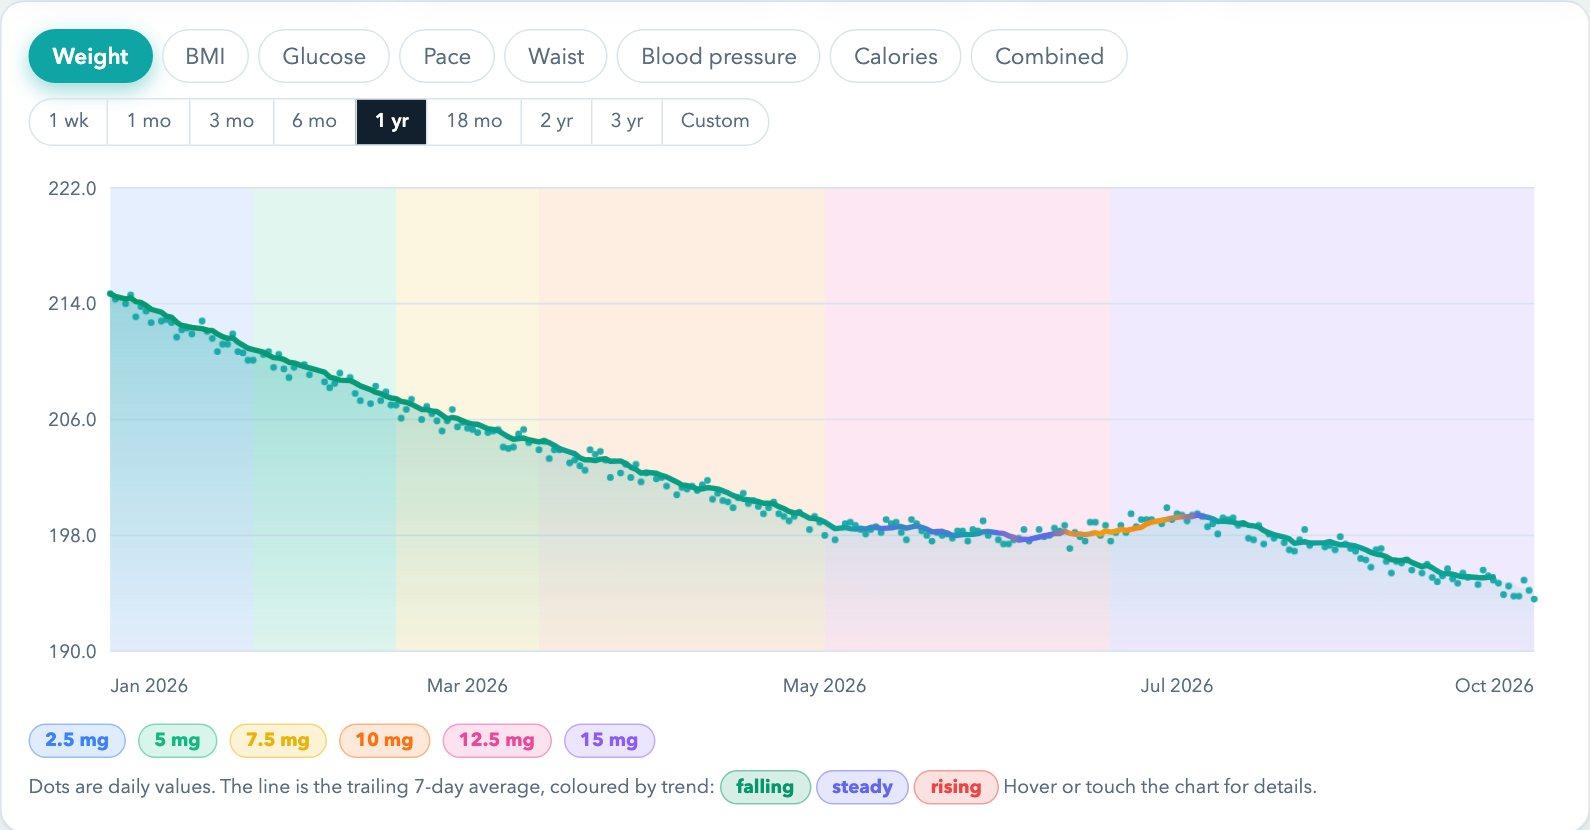
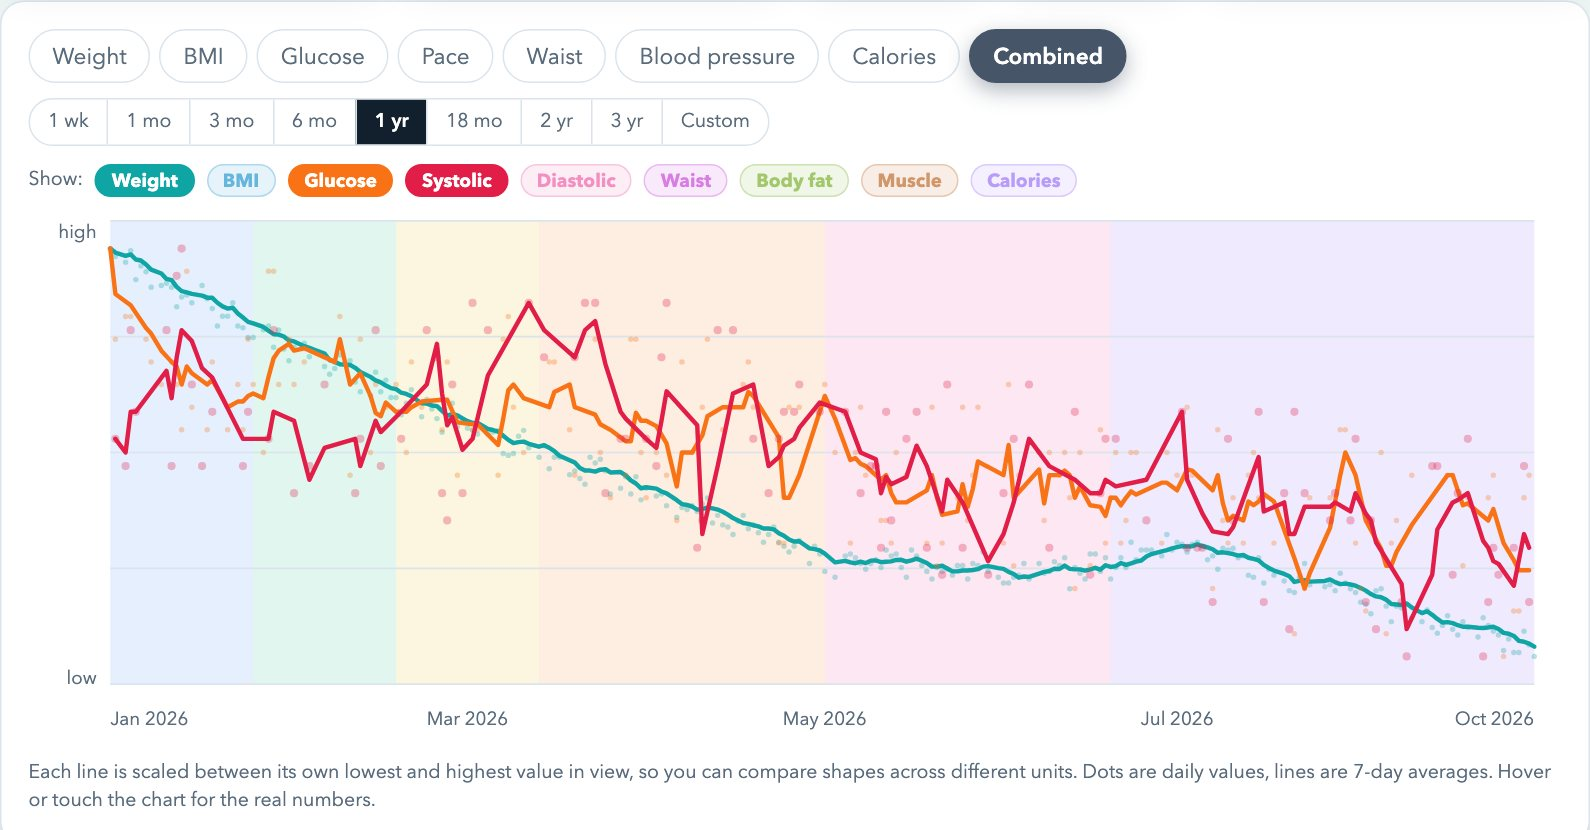
Landing demo picture: the Combined chart, so it differs from the hero picture

diff --git a/index.html b/index.html
@@ -439,7 +439,7 @@
       <div class="panel lp-card" style="--c:#f97316"><h2>Web and iPhone in step</h2><p>Sign in on either and see the same log. After you sign in it keeps working offline and catches up when you are back online.</p></div>
     </div>
     <div class="panel lp-split lp-demo">
-      <a href="/demo" aria-label="Open the live demo"><img src="landing/demo.jpg" width="1060" height="700" loading="lazy" alt="The demo: nine months of weight with shaded dose bands, a line coloured by trend, with tabs for every other chart (made-up data)."></a>
+      <a href="/demo" aria-label="Open the live demo"><img src="landing/demo.jpg" width="1060" height="700" loading="lazy" alt="The demo's combined chart: weight, glucose and blood pressure over nine months on one plot, with shaded dose bands and tabs for every other chart (made-up data)."></a>
       <div>
         <h2>Try it first, no sign-in needed</h2>
         <p>Open a full demo filled with made-up data from nine months on treatment. Every chart, the insights, the entry form and the settings work. Nothing you do there is saved.</p>

diff --git a/tests/make-landing-shots.js b/tests/make-landing-shots.js
@@ -37,6 +37,7 @@ const path = require('path');
   await demo.route('http://localhost:8080/**', (r) => r.fulfill({ status: 200, contentType: 'text/html', body: require('fs').readFileSync(path.join(root, 'index.html'), 'utf8') }));
   await demo.goto('http://localhost:8080/demo');
   await demo.locator('#range button[data-days="365"]').click();
+  await demo.locator('#tab-compare').click();   // a different chart from the hero picture: weight, glucose and blood pressure on one plot
   await demo.waitForTimeout(900);
   const dbox = await demo.locator('#chartPanel').boundingBox();
   await demo.screenshot({ path: path.join(root, 'landing', 'demo.jpg'), type: 'jpeg', quality: 84, clip: { x: dbox.x, y: dbox.y, width: dbox.width, height: Math.min(dbox.height, 700) } });

diff --git a/CLAUDE.md b/CLAUDE.md
@@ -36,7 +36,7 @@ The iPhone app (TirzTrack, SwiftUI + SwiftData) lives at `~/ios_apps.d/tir.d` (s
 On the hosted site (http/https) the app shows only the landing page (`#landing`: marketing copy, sample screenshots from `landing/*.jpg` made by `node tests/make-landing-shots.js` from the fake sample year, Sign in button, "Request an invite" link to https://www.phoe.be/#contact) until someone is signed in; no graph, entry or setting is visible, and the hosted data file is not fetched. The gate is `applyGate()` plus a tiny script in `<head>` that sets `html.landing` before first paint (so there is no flash of the dashboard); `main > *` except the landing and `#msg` are hidden by CSS under it. It is a view gate, not encryption: the log still sits in this browser's `localStorage` (and stays there after sign-out). Not gated: `file://`, and doctor links (`#share=<token>`). The old `#cloud` URL flag is gone.  Tests: the "landing:" and "hosted and signed out" cases in `tests/cloud.spec.js`.
 
 ## Public demo and search indexing
-`https://tirzepatide.phoe.be/demo` (the file `demo.html`, a copy of the hosted `index.html`; a CloudFront function maps `/demo` to it, see the cloud repo's `site.tf`) is the whole app filled with made-up data for anyone: no sign-in, no sync, no storage. `DEMO` (detected from the address) makes `load()/loadSettings()` return `demoEntries()`/`demoSettings()` (deterministic invented data ending today: all six dose steps, a plateau and small rise, no long gap (so the chart line is unbroken; gap-breaking is covered by smoke tests with hand-built data), every one of the 13 fields, all six injection sites) and turns `save()/saveSettings()/loadSync()` and the chart-range storage into no-ops, so the visitor's own data is never read or written; edits live in memory and vanish on reload. The landing page has a "Try it first, no sign-in needed" panel above the iPhone and doctor-link panels (screenshot `landing/demo.jpg` from `node tests/make-landing-shots.js`). A "Your pocket log: the iPhone app" panel follows it, directly above the doctor-link panel, with two iPhone screenshots (`landing/ios-trends.jpg`, `landing/ios-chart.jpg`, from the iOS repo's `ScreenshotTests` run on the TirzTrack Demo simulator with `-SeedSampleData`, fake data). Tests: `tests/demo.spec.js`. Add a field to the log and `demoEntries()` must fill it too (the test checks all 13 columns).
+`https://tirzepatide.phoe.be/demo` (the file `demo.html`, a copy of the hosted `index.html`; a CloudFront function maps `/demo` to it, see the cloud repo's `site.tf`) is the whole app filled with made-up data for anyone: no sign-in, no sync, no storage. `DEMO` (detected from the address) makes `load()/loadSettings()` return `demoEntries()`/`demoSettings()` (deterministic invented data ending today: all six dose steps, a plateau and small rise, no long gap (so the chart line is unbroken; gap-breaking is covered by smoke tests with hand-built data), every one of the 13 fields, all six injection sites) and turns `save()/saveSettings()/loadSync()` and the chart-range storage into no-ops, so the visitor's own data is never read or written; edits live in memory and vanish on reload. The landing page has a "Try it first, no sign-in needed" panel above the iPhone and doctor-link panels (screenshot `landing/demo.jpg`, the Combined chart tab so it differs from the hero picture, from `node tests/make-landing-shots.js`). A "Your pocket log: the iPhone app" panel follows it, directly above the doctor-link panel, with two iPhone screenshots (`landing/ios-trends.jpg`, `landing/ios-chart.jpg`, from the iOS repo's `ScreenshotTests` run on the TirzTrack Demo simulator with `-SeedSampleData`, fake data). Tests: `tests/demo.spec.js`. Add a field to the log and `demoEntries()` must fill it too (the test checks all 13 columns).
 Nothing under tirzepatide.phoe.be may be indexed: CloudFront adds `X-Robots-Tag: noindex, nofollow` to every response (the headers policy in `site.tf`), every page also carries `<meta name="robots" content="noindex, nofollow">` (so the GitHub Pages and www.phoe.be forwarding copies are covered too), and there is deliberately NO `Disallow` in a robots.txt (a blocked page cannot show Google its noindex).
 
 ## Cloud sync (optional, invite only)
